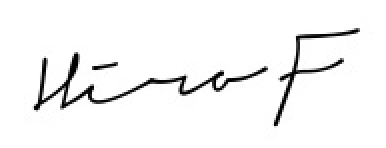
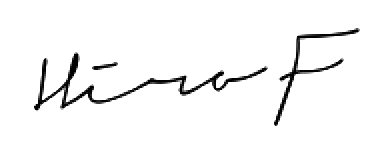
change font

diff --git a/src/accessible.html b/src/accessible.html
@@ -8,6 +8,12 @@ permalink: "/accessible.html"
     <title>A11y Workshop - Example of an accessible user experience</title>
     <meta name="viewport" content="width=device-width, initial-scale=1" />
     <link rel="icon" type="image/x-icon" href="favicon.ico" />
+    <link rel="preconnect" href="https://fonts.googleapis.com" />
+    <link rel="preconnect" href="https://fonts.gstatic.com" crossorigin />
+    <link
+      href="https://fonts.googleapis.com/css2?family=Barlow:ital,wght@0,300;0,400;0,500;0,600;0,700;1,300;1,400;1,500;1,600&display=swap"
+      rel="stylesheet"
+    />
     <link rel="stylesheet" href="./styles/accessible/styles.css" />
   </head>
   <body class="ks-accessible">

diff --git a/src/inaccessible.html b/src/inaccessible.html
@@ -9,6 +9,12 @@ permalink: "/inaccessible.html"
     <meta charset="utf-8" />
     <meta name="viewport" content="user-scalable=no" />
     <link rel="icon" type="image/x-icon" href="favicon.ico" />
+    <link rel="preconnect" href="https://fonts.googleapis.com" />
+    <link rel="preconnect" href="https://fonts.gstatic.com" crossorigin />
+    <link
+      href="https://fonts.googleapis.com/css2?family=Barlow:ital,wght@0,300;0,400;0,500;0,600;0,700;1,300;1,400;1,500;1,600&display=swap"
+      rel="stylesheet"
+    />
     <link rel="stylesheet" href="./styles/inaccessible/styles.css" />
   </head>
   <body class="ks-inaccessible">

diff --git a/src/scss/global/modules/_teaser.scss b/src/scss/global/modules/_teaser.scss
@@ -35,7 +35,7 @@
 
   &__heading {
     font-size: 70px;
-    font-weight: bold;
+    font-weight: normal;
     color: var(--white);
   }
 
@@ -59,6 +59,7 @@
   &__price-new {
     font-size: 30px;
     color: var(--color-accent);
+    font-weight: 500;
   }
 
   // &__rating {
@@ -105,6 +106,7 @@
   &__sizes {
     h2 {
       color: var(--white);
+      font-weight: 500;
     }
   }
 
@@ -121,6 +123,7 @@
     label {
       color: var(--white);
       border-radius: 2px;
+      font-weight: 500;
     }
   }
 }

diff --git a/src/scss/global/modules/_header.scss b/src/scss/global/modules/_header.scss
@@ -12,10 +12,6 @@
   }
 
   &__logo {
-    color: var(--white);
-    text-decoration: none;
-    font-style: italic;
-    font-weight: lighter;
     a {
       display: block;
       width: 7%;
@@ -38,8 +34,8 @@
     a {
       color: var(--gray-2);
       text-decoration: none;
-      font-weight: bold;
       border-radius: 2px;
+      font-weight: 500;
       &.active {
         color: var(--color-primary-dark);
       }

diff --git a/src/scss/inaccessible/modules/_special.scss b/src/scss/inaccessible/modules/_special.scss
@@ -3,7 +3,7 @@
 .special {
   background-color: var(--color-primary-bg);
   padding: 0 var(--safe-zone);
-    
+
   &__wrapper {
     display: flex;
     flex-direction: column;
@@ -38,7 +38,7 @@
   &__heading {
     text-align: center;
     font-size: 50px;
-    font-weight: bold;
+    font-weight: 500;
     color: var(--white);
   }
 

diff --git a/src/scss/global/modules/_collab.scss b/src/scss/global/modules/_collab.scss
@@ -1,5 +1,6 @@
 @mixin collab {
   padding: 0 var(--safe-zone);
+  background-color: var(--gray-1);
 
   &__wrapper {
     display: flex;
@@ -20,7 +21,7 @@
 
   &__heading {
     color: var(--color-text-heading);
-    font-weight: bold;
+    font-weight: 500;
     text-align: center;
   }
 

diff --git a/src/scss/accessible/modules/_header.scss b/src/scss/accessible/modules/_header.scss
@@ -23,9 +23,9 @@
           position: absolute;
           left: 0;
           right: 0;
-          height: 4px;
+          height: 3px;
           background-color: var(--color-primary-light);
-          bottom: -4px;
+          bottom: -1px;
         }
       }
     }

diff --git a/src/scss/global/_reset.scss b/src/scss/global/_reset.scss
@@ -2,5 +2,6 @@
   margin: 0;
   padding: 0;
   box-sizing: border-box;
-  font-family: "Arial Narrow", Arial, Helvetica, sans-serif;
+  font-family: Barlow, "Arial Narrow", Arial, Helvetica, sans-serif;
+  font-weight: 300;
 }

diff --git a/src/scss/inaccessible/modules/_offers.scss b/src/scss/inaccessible/modules/_offers.scss
@@ -17,7 +17,7 @@
   &__heading {
     text-align: center;
     font-size: 50px;
-    font-weight: bold;
+    font-weight: 500;
     color: var(--color-text-heading);
   }
 

diff --git a/src/scss/global/_colors.scss b/src/scss/global/_colors.scss
@@ -18,7 +18,7 @@
   --gray-4: #a5a5a6;
   --gray-3: #bbbbbc;
   --gray-2: #d1d0d2;
-  --gray-1: #e8e7e8;
+  --gray-1: #fcfcfc;
   --white: white;
 
   /* feedback */

diff --git a/src/scss/accessible/modules/_collab.scss b/src/scss/accessible/modules/_collab.scss
@@ -4,7 +4,7 @@
   @include collab;
 
   &__heading {
-    font-size: toRem(40);
+    font-size: toRem(50);
   }
 
   &__text {

diff --git a/src/scss/inaccessible/modules/_collab.scss b/src/scss/inaccessible/modules/_collab.scss
@@ -4,7 +4,7 @@
   @include collab;
 
   &__heading {
-    font-size: 40px;
+    font-size: 50px;
   }
 
   &__text {
